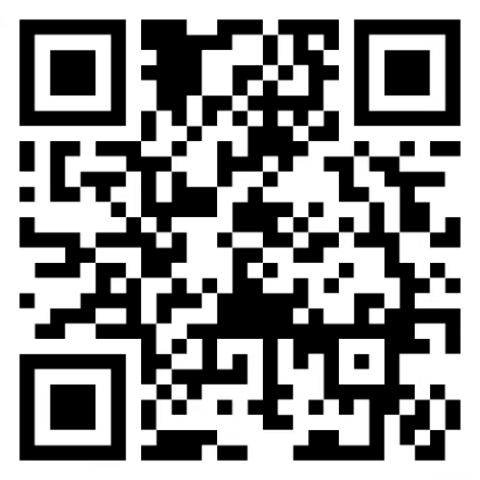
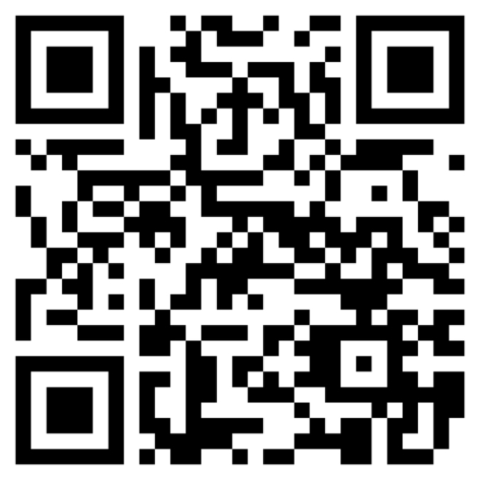
feat: v3.9.3

diff --git a/src/components/widget/sponsor.vue b/src/components/widget/sponsor.vue
@@ -132,14 +132,14 @@
         {
           id: 'bitcoin',
           title: 'BTC',
-          address: '3EfQ59NRCo33EQngwVsKJxonzz2fkbyopw',
+          address: SPONSOR_LINKS.BTC_ADDRESS,
           logo: '/images/sponsor/btc-logo.svg',
           qrcode: '/images/sponsor/btc-qrcode.png'
         },
         {
           id: 'ethereum',
           title: 'ETH',
-          address: '0xaD556974D449126efdeF23f4FF581861C301cB77',
+          address: SPONSOR_LINKS.ETH_ADDRESS,
           logo: '/images/sponsor/eth-logo.svg',
           qrcode: '/images/sponsor/eth-qrcode.png'
         }

diff --git a/src/config/app.config.ts b/src/config/app.config.ts
@@ -31,7 +31,7 @@ export const THIRD_IDS = Object.freeze({
 export const SPONSOR_LINKS = Object.freeze({
   PAYPAL: 'https://paypal.me/surmon',
   GITHUB_SPONSORS: 'https://github.com/sponsors/surmon-china',
-  BTC_ADDRESS: '3EfQ59NRCo33EQngwVsKJxonzz2fkbyopw',
+  BTC_ADDRESS: 'bc1qhpdu03tnexkj4xsm3lqzyjdddz6z0rj2n7fsze',
   ETH_ADDRESS: '0xaD556974D449126efdeF23f4FF581861C301cB77'
 })
 
